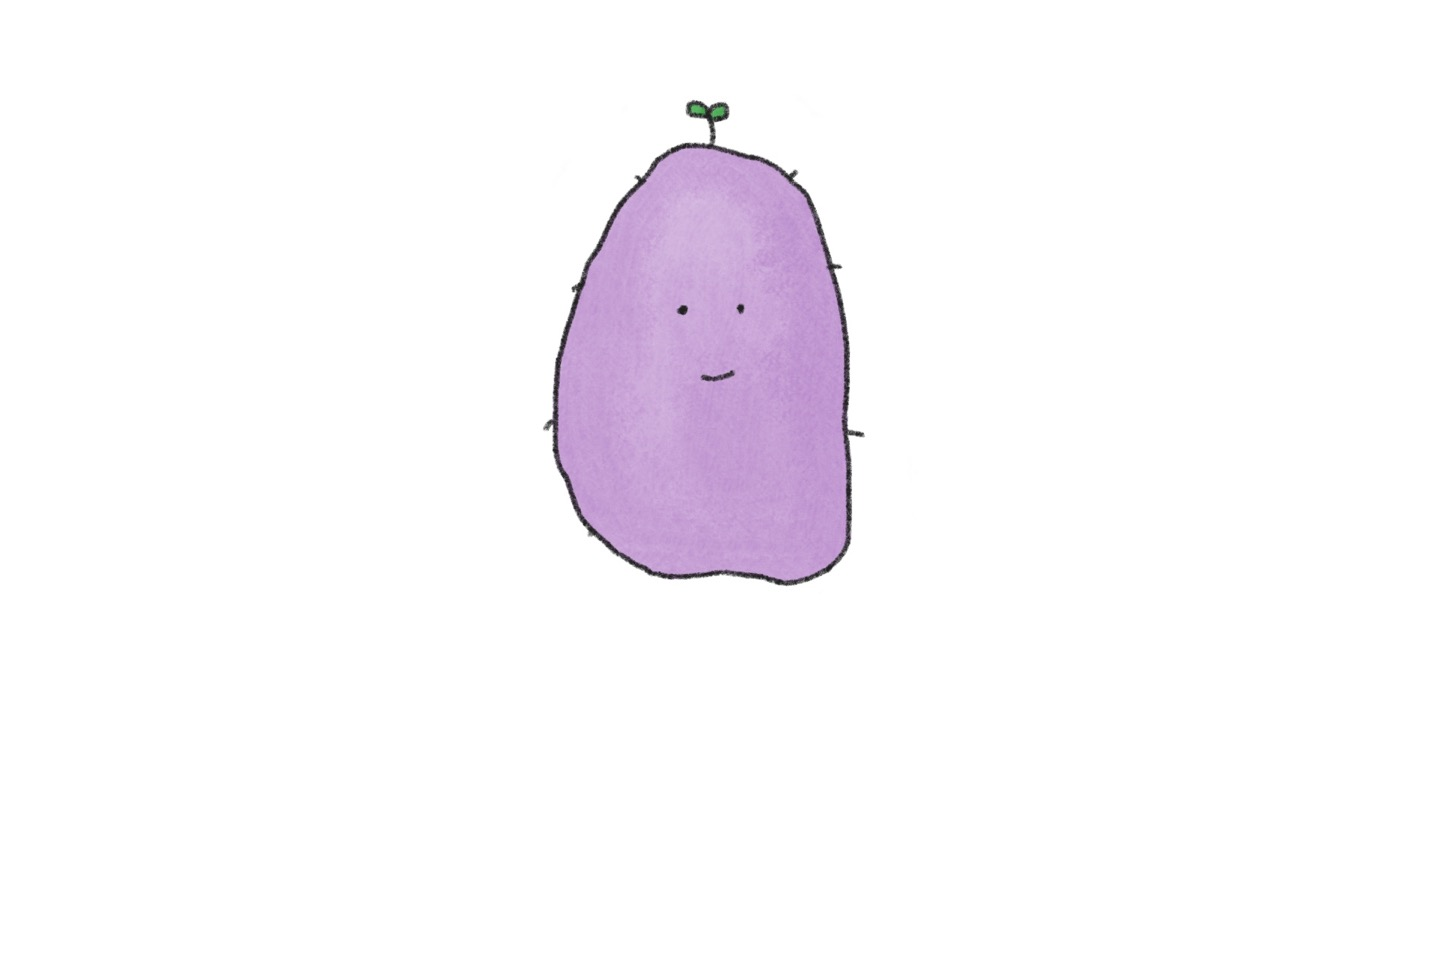
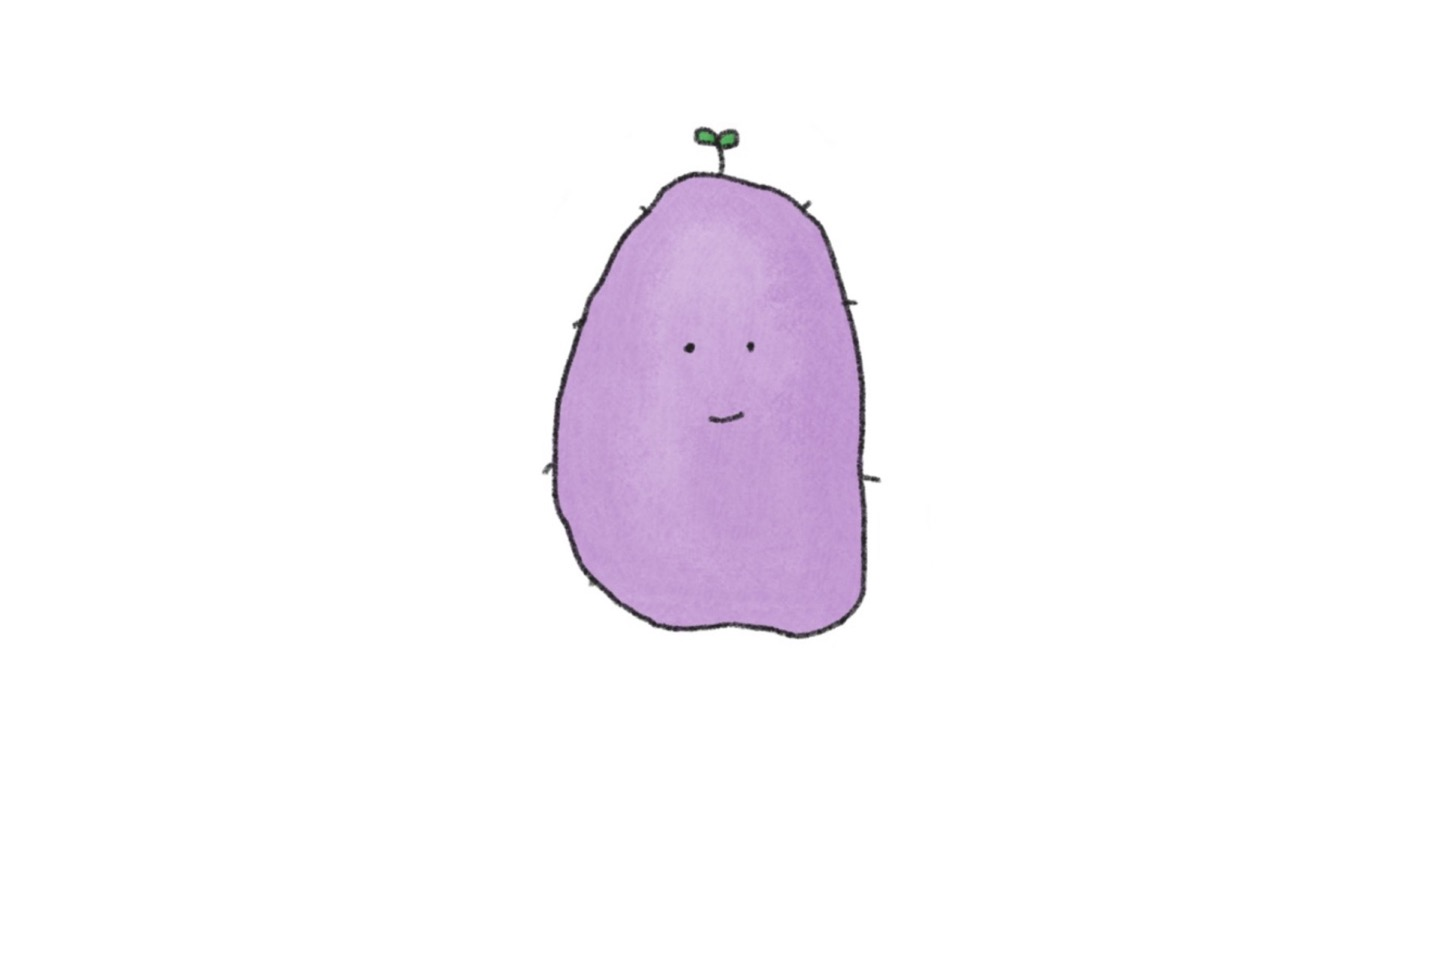
login시 image변경

Changed region(s): [[0.375, 0.0938, 0.625, 0.6875]]

diff --git a/js/background.js b/js/background.js
@@ -1,19 +1,33 @@
 // 랜덤 배경 이미지 화면에 보이기
 const centerImage = document.querySelector("#center");
+const loginSituation = document.querySelector("#login-form");
+const logoutSituation = document.querySelector("#logout-form");
 const images = [
     "0.jpg", "1.jpg", "2.jpg"
 ]
+const loginImages = [
+    "3.jpg", "4.jpg", "5.jpg"
+]
 
-const chosenImage = images[Math.floor(Math.random() * images.length)];
+const landomNumber = Math.floor(Math.random() * images.length)
+const chosenImage = images[landomNumber];
+const chosenLoginImage = loginImages[landomNumber];
 
-// 이미지를 html에 적용하기
+// 이미지를 html에 적용하기 (background 이미지가 아닌 img요소로 추가)
 // 만들어진 것은 html에는 없지만 존재함
-const bgImage = document.createElement("img");
-bgImage.src = `img/${chosenImage}`;
-document.body.classList.add("bgimage");
-
-// body에 추가
-centerImage.style.background = `url(img/${chosenImage}) no-repeat top`;
-centerImage.style.backgroundSize = "cover";
+// const bgImage = document.createElement("img");
+// bgImage.src = `img/${chosenImage}`;
+// document.body.classList.add("bgimage");
 // document.body.appendChild(bgImage)
 // const backgroundImage = document.querySelector("bgimage");
+
+// background이미지로 추가하기
+if(loginSituation.classList.contains("hidden")){
+    console.log(loginSituation.classList.contains("hidden"));
+    centerImage.style.background = `url(img/${chosenLoginImage}) no-repeat top`;
+    centerImage.style.backgroundSize = "cover";
+}else{
+    console.log(loginSituation.classList.contains("hidden"));
+    centerImage.style.background = `url(img/${chosenImage}) no-repeat top`;
+    centerImage.style.backgroundSize = "cover";
+}

diff --git a/css/style.css b/css/style.css
@@ -1,8 +1,4 @@
-#clock{
-    text-align: center;
-    font-size: xxx-large;
-    font-weight: bolder;
-}
+
 
 .hidden{
     display: none;
@@ -11,6 +7,13 @@
 body{
     font-family: 'Nanum Gothic', sans-serif;
     font-family: 'Nanum Gothic Coding', monospace;
+    /* position: relative; */
+}
+
+#clock{
+    text-align: center;
+    font-size: xxx-large;
+    font-weight: bolder;
 }
 
 #center{
@@ -24,3 +27,20 @@ body{
     align-items: center;
 }
 
+#greeting{
+    display: flex;
+    justify-content: center;
+    align-items: center;
+}
+
+#todo-form{
+    margin-left: 300px;
+}
+
+ #todo-list{
+    margin-left: 265px;
+    width: 200px;
+    height: 400px;
+    /* box-shadow: 5px 5px 10px 5px rgba(0, 0, 0, 0.295);
+    background-color: rgba(5, 155, 17, 0.4); */
+} 

diff --git a/index.html b/index.html
@@ -36,10 +36,10 @@
         </form>
         <ul id="todo-list"></ul>
         <div id="weather" class="hidden">
+            <hr>
             <span></span>
             <span></span>
         </div>
-        <hr>
         <div id="quote" class="hidden">
             <span></span>
             <span></span>
